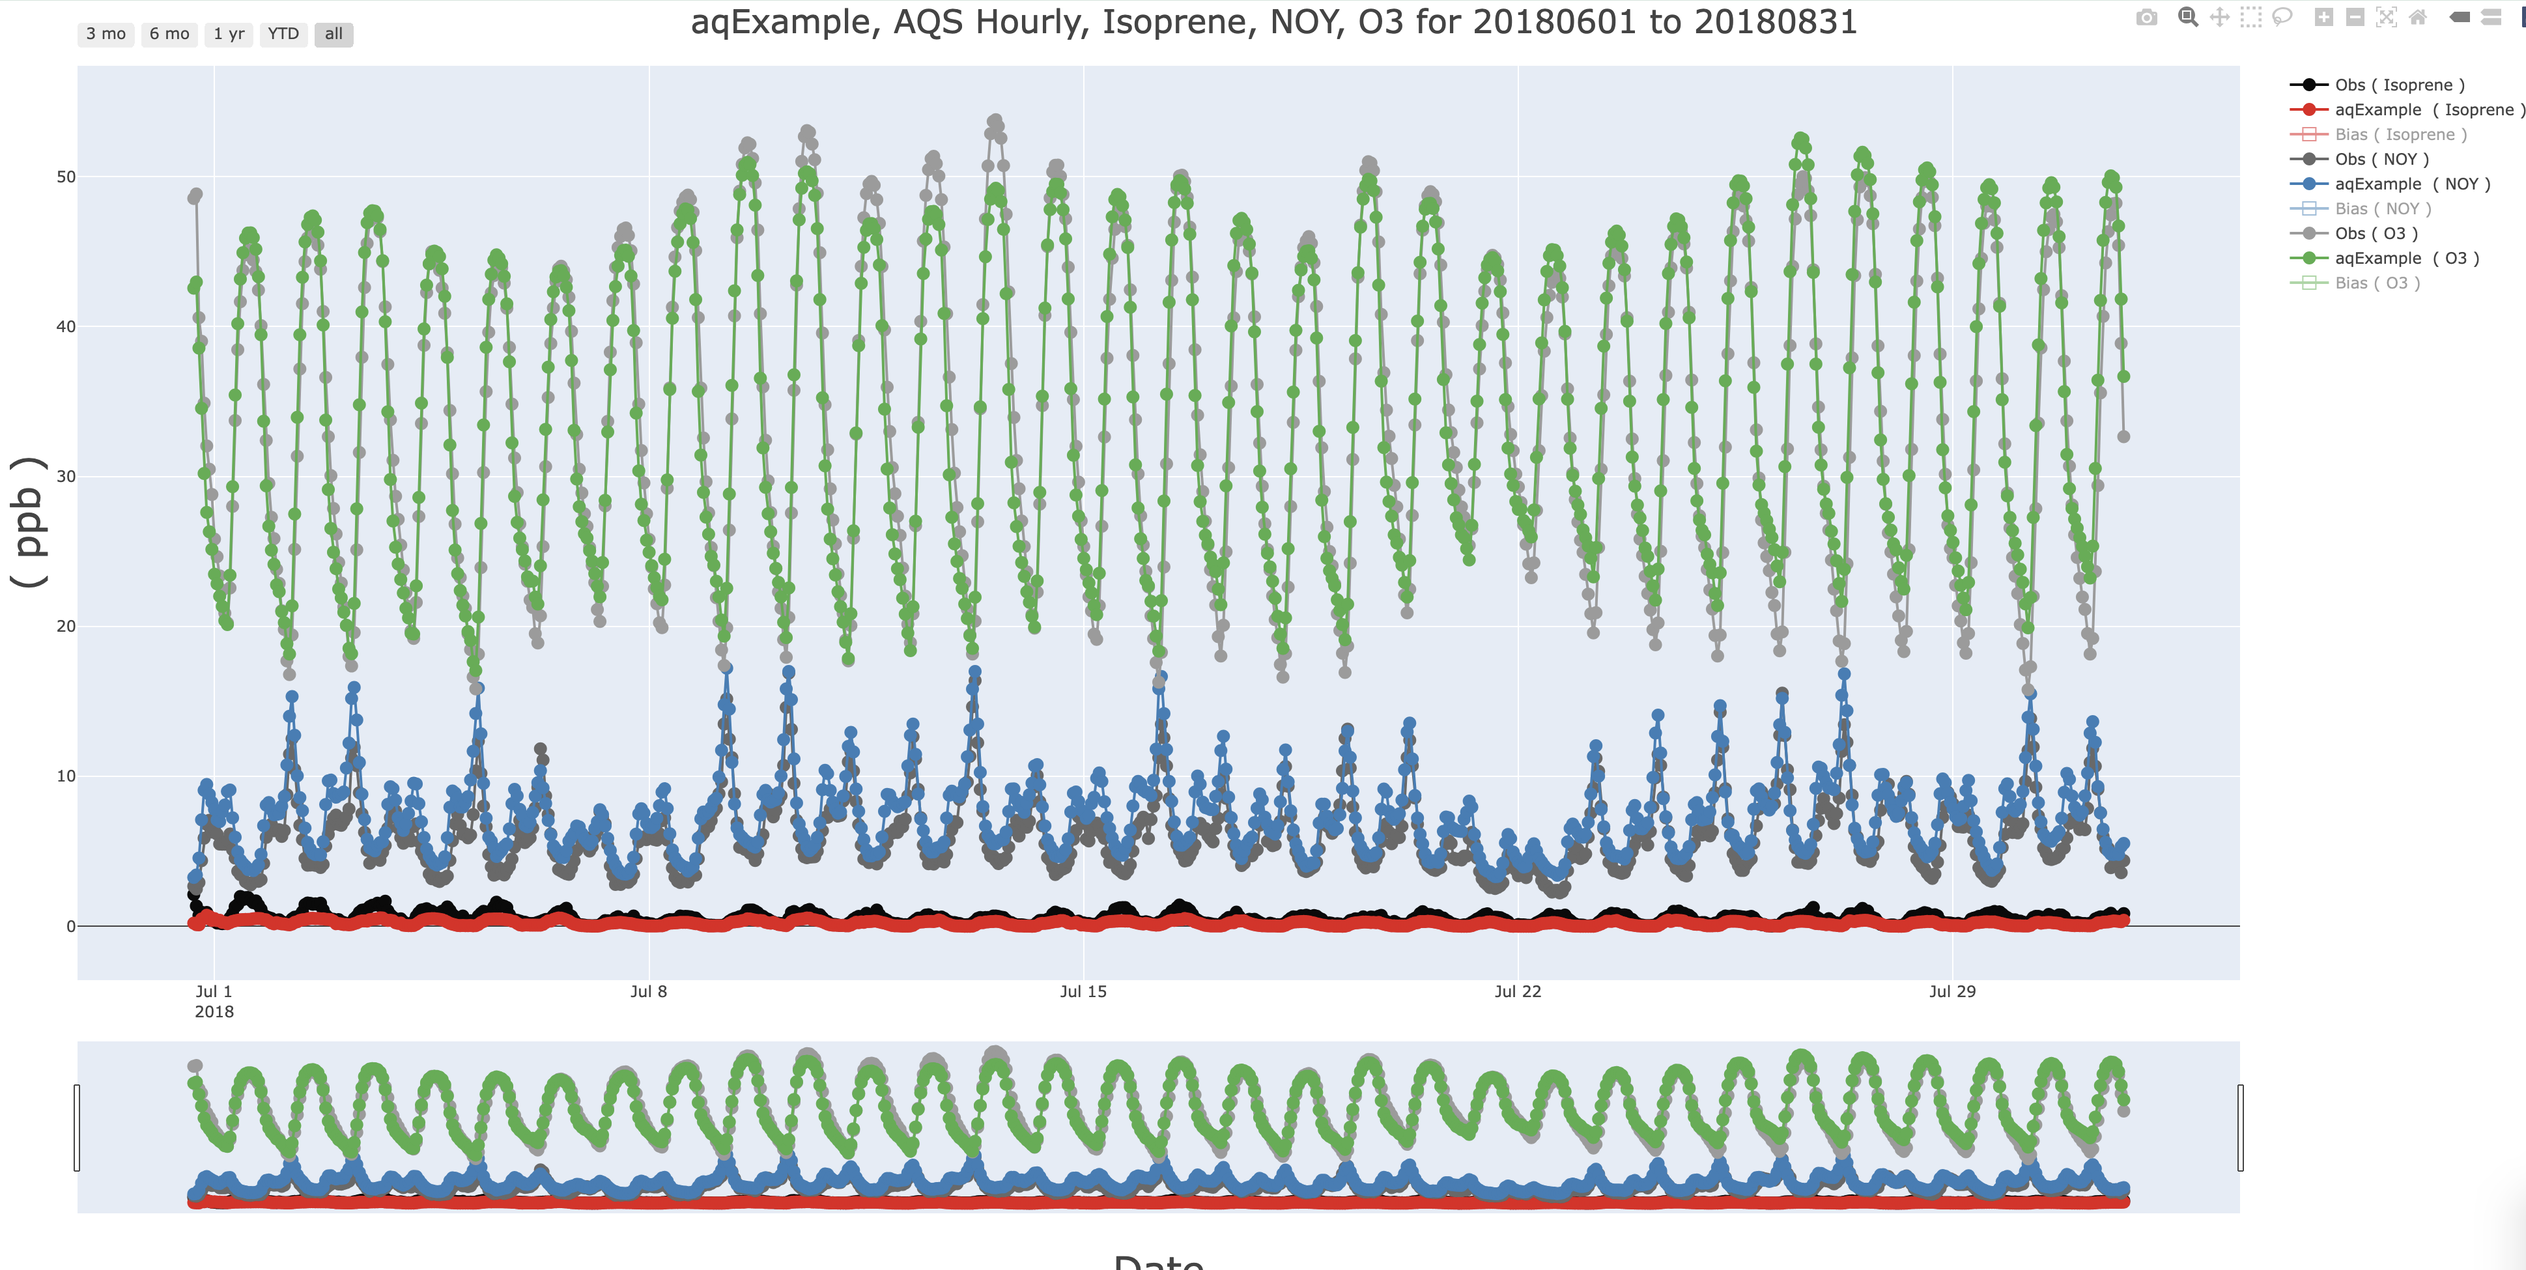
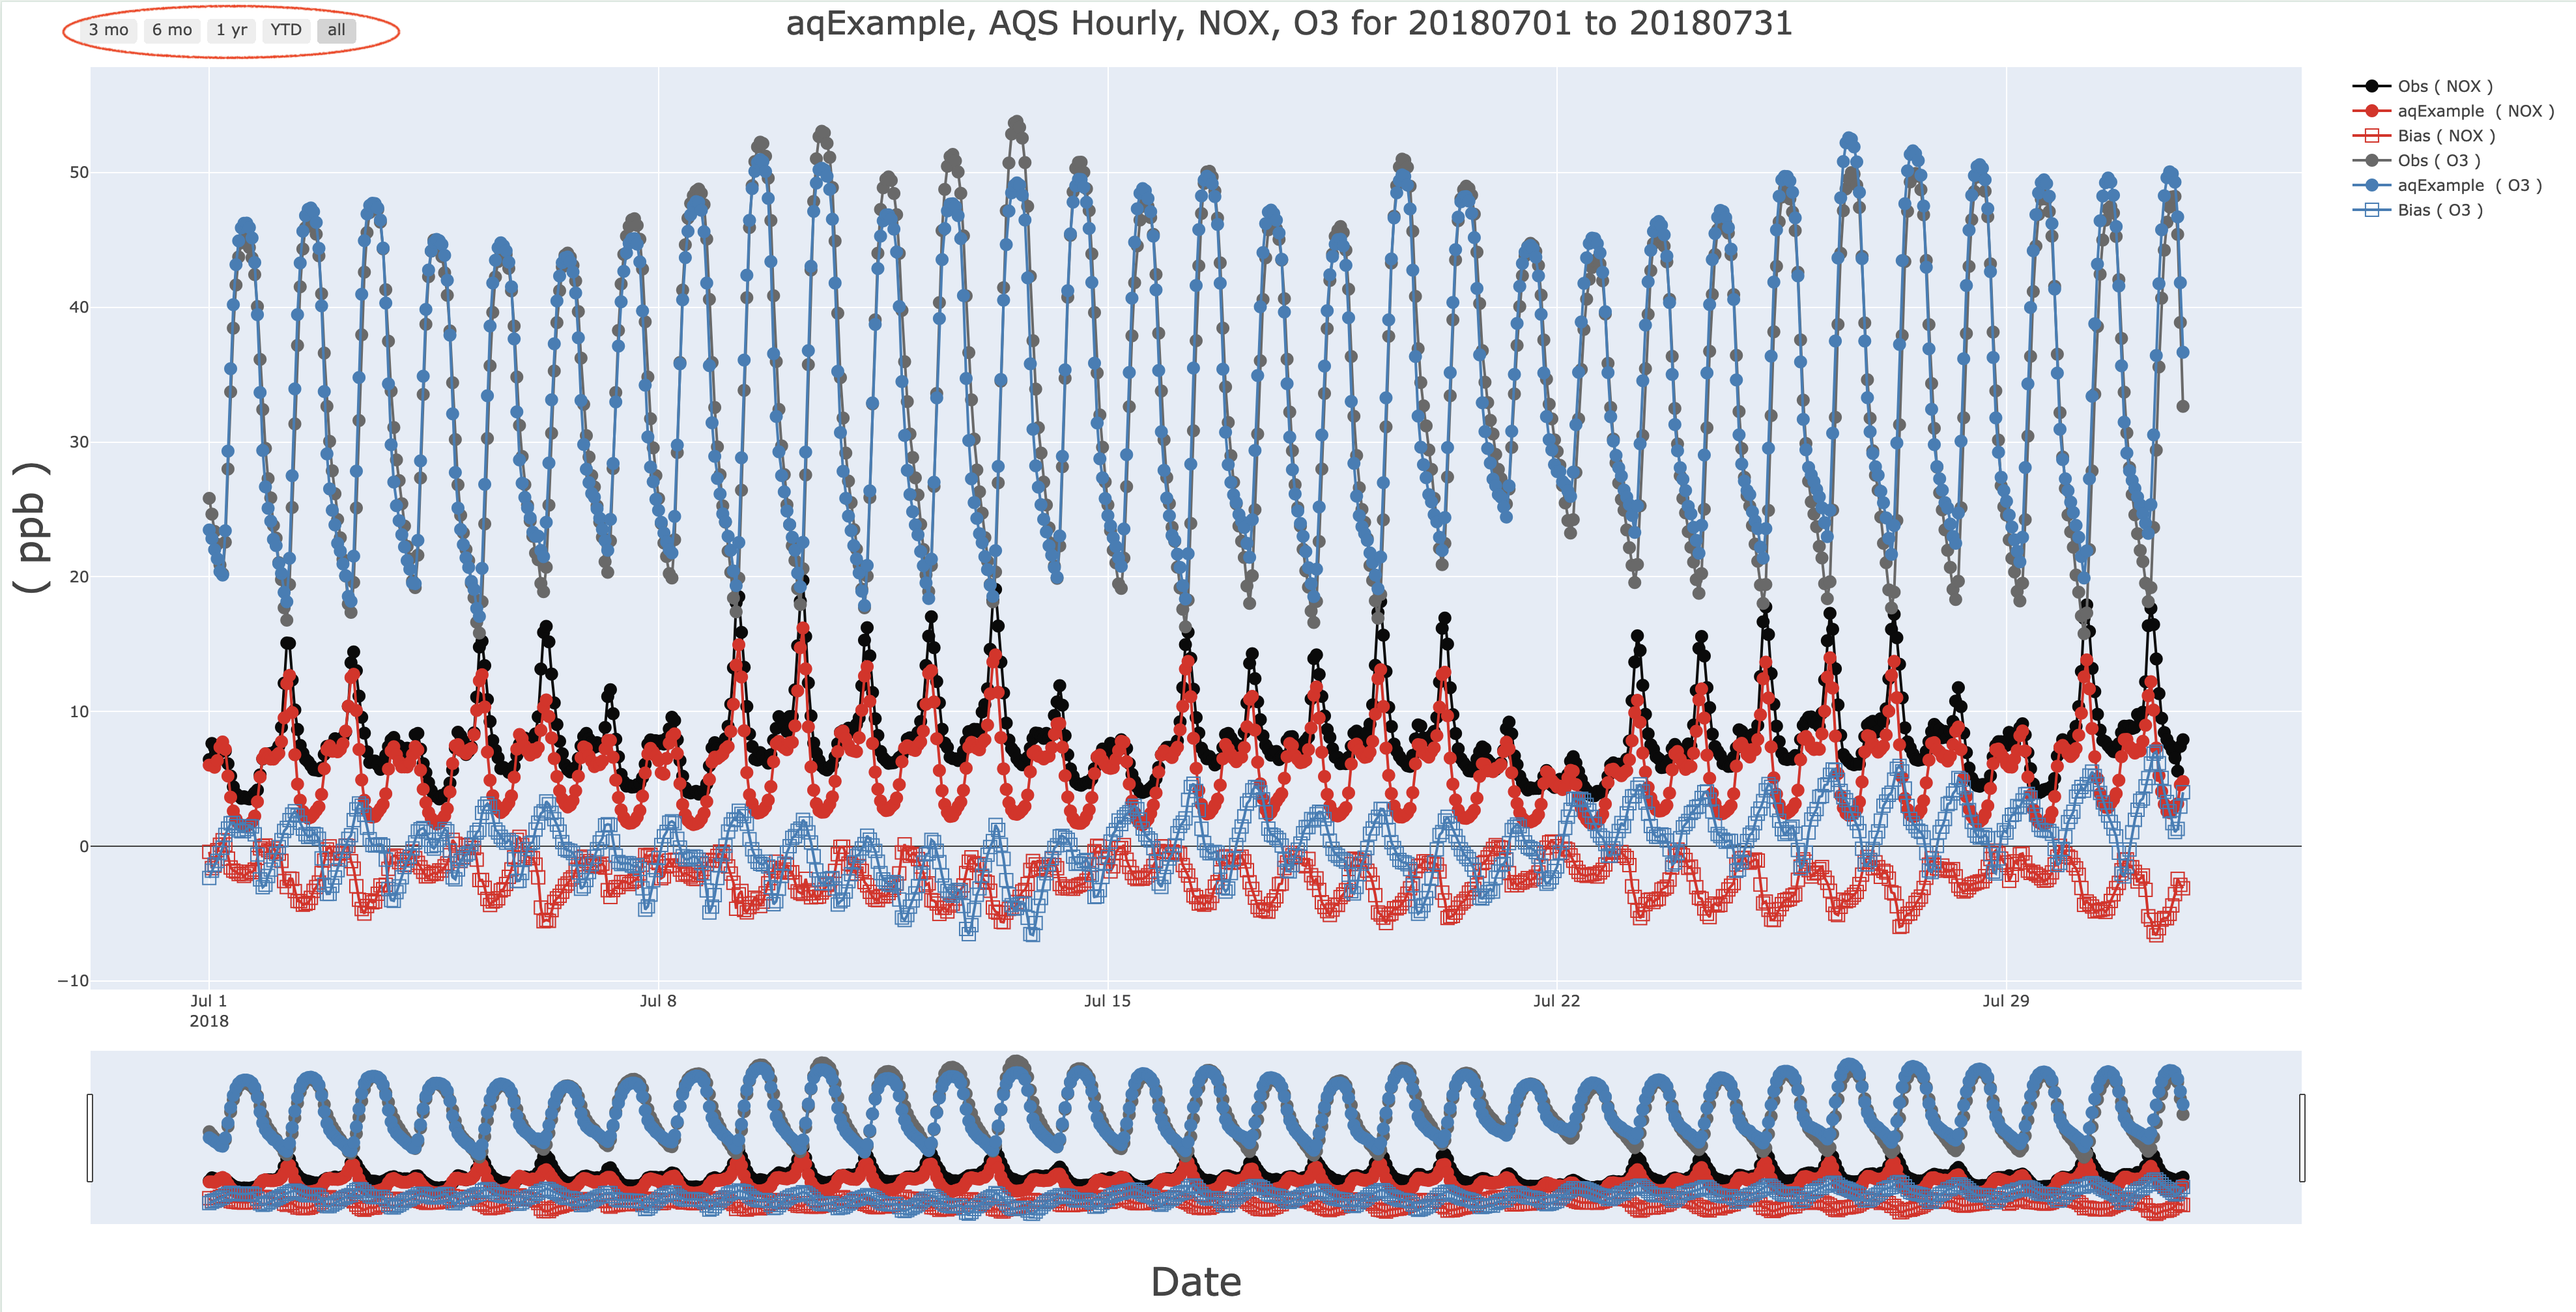
update

diff --git a/docs/user_guide_pcluster/amet/ami_website.md b/docs/user_guide_pcluster/amet/ami_website.md
@@ -921,13 +921,12 @@ Query result
 <li>Under Species to Plot
 <ul>
 <li>Select O3</li>
-<li>Select Isoprene</li>
 <li> Select NOY</li>
 </ul>
 </li>
 </ul>
 
-![AMET select AQS Hourly and Multispecies](./amet_select_AQS_hourly_multiple_species_O3_NOY_isoprene.png)
+![AMET select AQS Hourly and Multispecies](./amet_select_AQS_hourly_multiple_species_O3_NOY.png)
 
 <ul>
 <li>Under Choose Program to Run
@@ -939,7 +938,7 @@ Query result
 
 ![AMET run Plotly Multispecies Timeseries](./amet_run_plotly_multispecies_timeseries.png)
 
-Plotly Timeseries of O3, NOY, and Isoprene<br>
+Plotly Timeseries of O3 and NOY<br>
 Note, this plot is interactive, and you can turn off items by clicking on an item in the legend, and also window to a specific time within the plot.<br>
 
 ![Interactive Hourly Timeseries Plot of O3, Isoprene, NOY](./amet_plotly_hourly_timeseries_multispecies.png)
